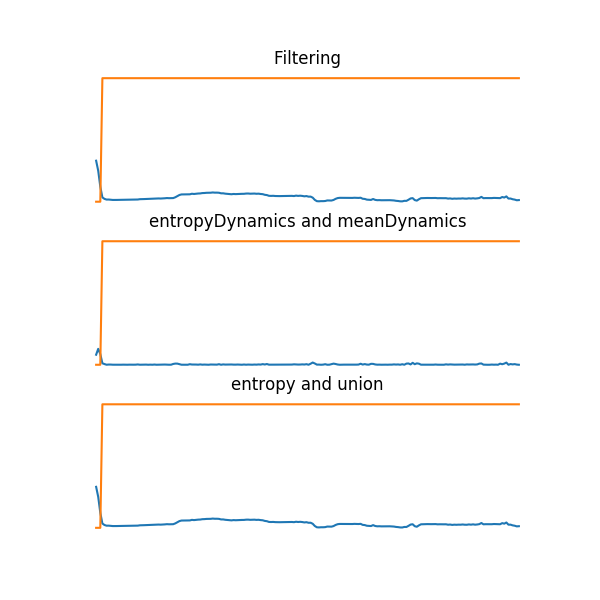
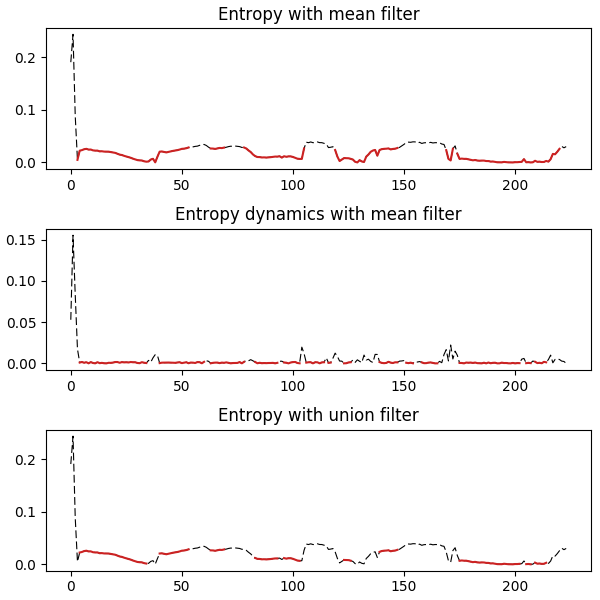
Color palettes.

diff --git a/foo.py b/foo.py
@@ -4,6 +4,12 @@ import json, weles, hssa
 import matplotlib.pyplot as plt
 import numpy as np
 from scipy import stats
+from matplotlib.colors import LinearSegmentedColormap
+
+solarized = LinearSegmentedColormap.from_list(
+    'solarized', ['#FFFFFF', '#002b36', '#073642', '#586e75', '#657b83', '#839496', '#93a1a1', '#eee8d5', '#fdf6e3', '#b58900', '#cb4b16', '#dc322f', '#d33682', '#6c71c4', '#268bd2', '#2aa198', '#859900', '#EEEEEE'])
+materialized = LinearSegmentedColormap.from_list(
+    'materialized', ['#fafafa', '#f44336', '#e91e63', '#9c27b0', '#673ab7', '#3f51b5', '#2196f3', '#03a9f4', '#00bcd4', '#009688', '#4caf50', '#8bc34a', '#cddc39', '#ffeb3b', '#ffc107', '#ff9800', '#ff5722', '#eeeeee'])
 
 imagesDirectory = 'data/hsimages/'
 with open('%s%s' % (imagesDirectory, 'salinas.json')) as data_file:
@@ -13,50 +19,89 @@ print 'Hello.'
 img = hssa.HS(dictionary)
 print img
 
-
-k = (4, 4)
-reductor = 16.
-
-
-ap = hssa.AP(img, k, reductor)
-
-# foo.png
-plt.figure(figsize=(6, 12))
+k = (2, 2)
+percentile = 75
+ap = hssa.AP(img, k, percentile)
 
 noFilter = [True] * img.bands
 
 # Spłaszczona kostka wypadkowa
-plt.subplot(221); plt.imshow(ap.edgesFlat(noFilter), cmap='gray'); plt.axis('off')
-plt.subplot(223); plt.imshow(ap.edgesMask(noFilter), cmap='gray'); plt.axis('off')
+a = ap.edgesFlat(noFilter)
+b = ap.edgesMask(noFilter)
 
 # Odfiltrowana spłaszczona kostka wypadkowa
-plt.subplot(222); plt.imshow(ap.edgesFlat(), cmap='gray'); plt.axis('off')
-plt.subplot(224); plt.imshow(ap.edgesMask(), cmap='gray'); plt.axis('off')
+c = ap.edgesFlat()
+d = ap.edgesMask()
 
+#
+gt = np.copy(img.gt)
+gt[0,0] = 17
+gta = np.copy(img.gt)
+gta[d] = 17
+
+# foo.png
+plt.figure(figsize=(6, 6))
+
+plt.subplot(231); plt.imshow(a, cmap='gray'); plt.axis('off')
+plt.title('#noFilter')
+plt.subplot(234); plt.imshow(b, cmap='gray'); plt.axis('off')
+plt.subplot(232); plt.imshow(c, cmap='gray'); plt.axis('off')
+plt.title('#filter')
+plt.subplot(235); plt.imshow(d, cmap='gray'); plt.axis('off')
+plt.subplot(233); plt.imshow(gt, cmap=materialized)
+plt.axis('off')
+plt.title('#gt')
+plt.subplot(236); plt.imshow(gta, cmap=materialized)
+plt.axis('off')
+
+plt.tight_layout(pad=0.4, w_pad=0.5, h_pad=1.0)
 plt.savefig('foo.png')
 
 
 # bar.png
 plt.figure(figsize=(6, 6))
 
+# First
 plt.subplot(311)
-plt.plot(xrange(img.bands), ap.entropy)
-plt.plot(xrange(img.bands), ap.meanEntropy)
-plt.axis('off')
-plt.title('Filtering')
+entropy = ap.entropy
+whereFail = np.squeeze(np.where(np.logical_not(ap.meanEntropy)))
 
+entropyPass = np.copy(entropy)
+entropyPass[whereFail] = np.nan
+
+plt.plot(xrange(img.bands), entropy,
+    color = '#000000', linestyle = 'dashed', lw = .8)
+plt.plot(xrange(img.bands), entropyPass,
+    color = '#CC2222', lw = 1.5)
+plt.title('Entropy with mean filter')
+
+# Second
 plt.subplot(312)
-plt.plot(xrange(img.bands), ap.entropyDynamics)
-plt.plot(xrange(img.bands), ap.meanDynamics)
-plt.axis('off')
-plt.title('entropyDynamics and meanDynamics')
+entropyDynamics = ap.entropyDynamics
+whereFail = np.squeeze(np.where(np.logical_not(ap.meanDynamics)))
 
+entropyDynamicsPass = np.copy(entropyDynamics)
+entropyDynamicsPass[whereFail] = np.nan
+
+plt.plot(xrange(img.bands), entropyDynamics,
+    color = '#000000', linestyle = 'dashed', lw = .8)
+plt.plot(xrange(img.bands), entropyDynamicsPass,
+    color = '#CC2222', lw = 1.5)
+plt.title('Entropy dynamics with mean filter')
+
+# Third
 plt.subplot(313)
-plt.plot(xrange(img.bands), ap.entropy)
-plt.plot(xrange(img.bands), ap.filter)
-plt.axis('off')
-plt.title('entropy and union')
+whereFail = np.squeeze(np.where(np.logical_not(ap.filter)))
+
+entropyPass = np.copy(entropy)
+entropyPass[whereFail] = np.nan
+
+plt.plot(xrange(img.bands), entropy,
+    color = '#000000', linestyle = 'dashed', lw = .8)
+plt.plot(xrange(img.bands), entropyPass,
+    color = '#CC2222', lw = 1.5)
+plt.title('Entropy with union filter')
 
 
-plt.axis('off')
+plt.tight_layout(pad=0.4, w_pad=0.5, h_pad=1.0)
 plt.savefig('bar.png')

diff --git a/hssa/HS.py b/hssa/HS.py
@@ -193,14 +193,18 @@ class HS:
 
         return edges3d
 
-    def edgesFilter(self, edges3d, reductor):
+    def edgesFilter(self, edges3d, percentile):
         # Calculate entropy
-        entropy = np.median(np.median(edges3d,0),0)
+        entropy = np.percentile(
+            np.percentile(
+                edges3d, percentile, axis = 0),
+            percentile, axis = 0)
+        entropy = np.absolute(
+            np.subtract(
+                entropy, np.median(entropy)))
 
         # mean entropy filter
-        mefa = np.median(entropy)
-        mefb = np.max(entropy)
-        mef = entropy < mefa + (mefb / reductor)
+        mef = entropy < np.percentile(entropy, percentile)
         meanEntropy = np.zeros(len(entropy))
         meanEntropy[mef] = True
 
@@ -213,9 +217,7 @@ class HS:
         entropyDynamics = np.absolute(entropyDynamics)
 
         # Mean dynamics filter
-        meda = np.median(entropyDynamics)
-        medb = np.max(entropyDynamics)
-        med = entropyDynamics < meda + (medb / reductor)
+        med = entropyDynamics < np.percentile(entropyDynamics, percentile)
         meanDynamics = np.zeros(len(entropy))
         meanDynamics[med] = True
 
@@ -234,18 +236,12 @@ class HS:
         edgesFlatMean = np.mean(np.squeeze(edges3d[:,:,np.where(filter)]), 2)
         edgesFlatMean = scipy.ndimage.median_filter(edgesFlatMean, size=(2, 2))
 
+        edgesFlatMean = ndimage.grey_dilation(edgesFlatMean, size=(3,3))
+
         return edgesFlatMean
 
     def edgesFlat(self, edges3d, filter):
-        return self.edgesFlatMean(edges3d, filter)
-
-        efmax = self.edgesFlatMax(edges3d, filter)
-        efmean = self.edgesFlatMean(edges3d, filter)
-
-        edgesFlat = np.add(efmax,efmean)
-
-        return edgesFlat
-
+        return self.edgesFlatMax(edges3d, filter)
 
     def edgesMask(self, edgesFlat):
         edgesMask = np.zeros(np.shape(edgesFlat))

diff --git a/hssa/AP.py b/hssa/AP.py
@@ -1,16 +1,16 @@
 # -*- coding: utf-8 -*-
 
 class AP:
-    def __init__(self, img, ksize, reductor):
+    def __init__(self, img, ksize, percentile):
         self.img = img
         self.ksize = ksize
-        self.reductor = reductor
+        self.percentile = percentile
 
         # Kostka graniczna
         self.edges3d = img.edges3d(ksize)
 
         # Filtr
-        edgesFilter = img.edgesFilter(self.edges3d, reductor)
+        edgesFilter = img.edgesFilter(self.edges3d, percentile)
 
         self.entropy = edgesFilter[0]
         self.meanEntropy = edgesFilter[1]
